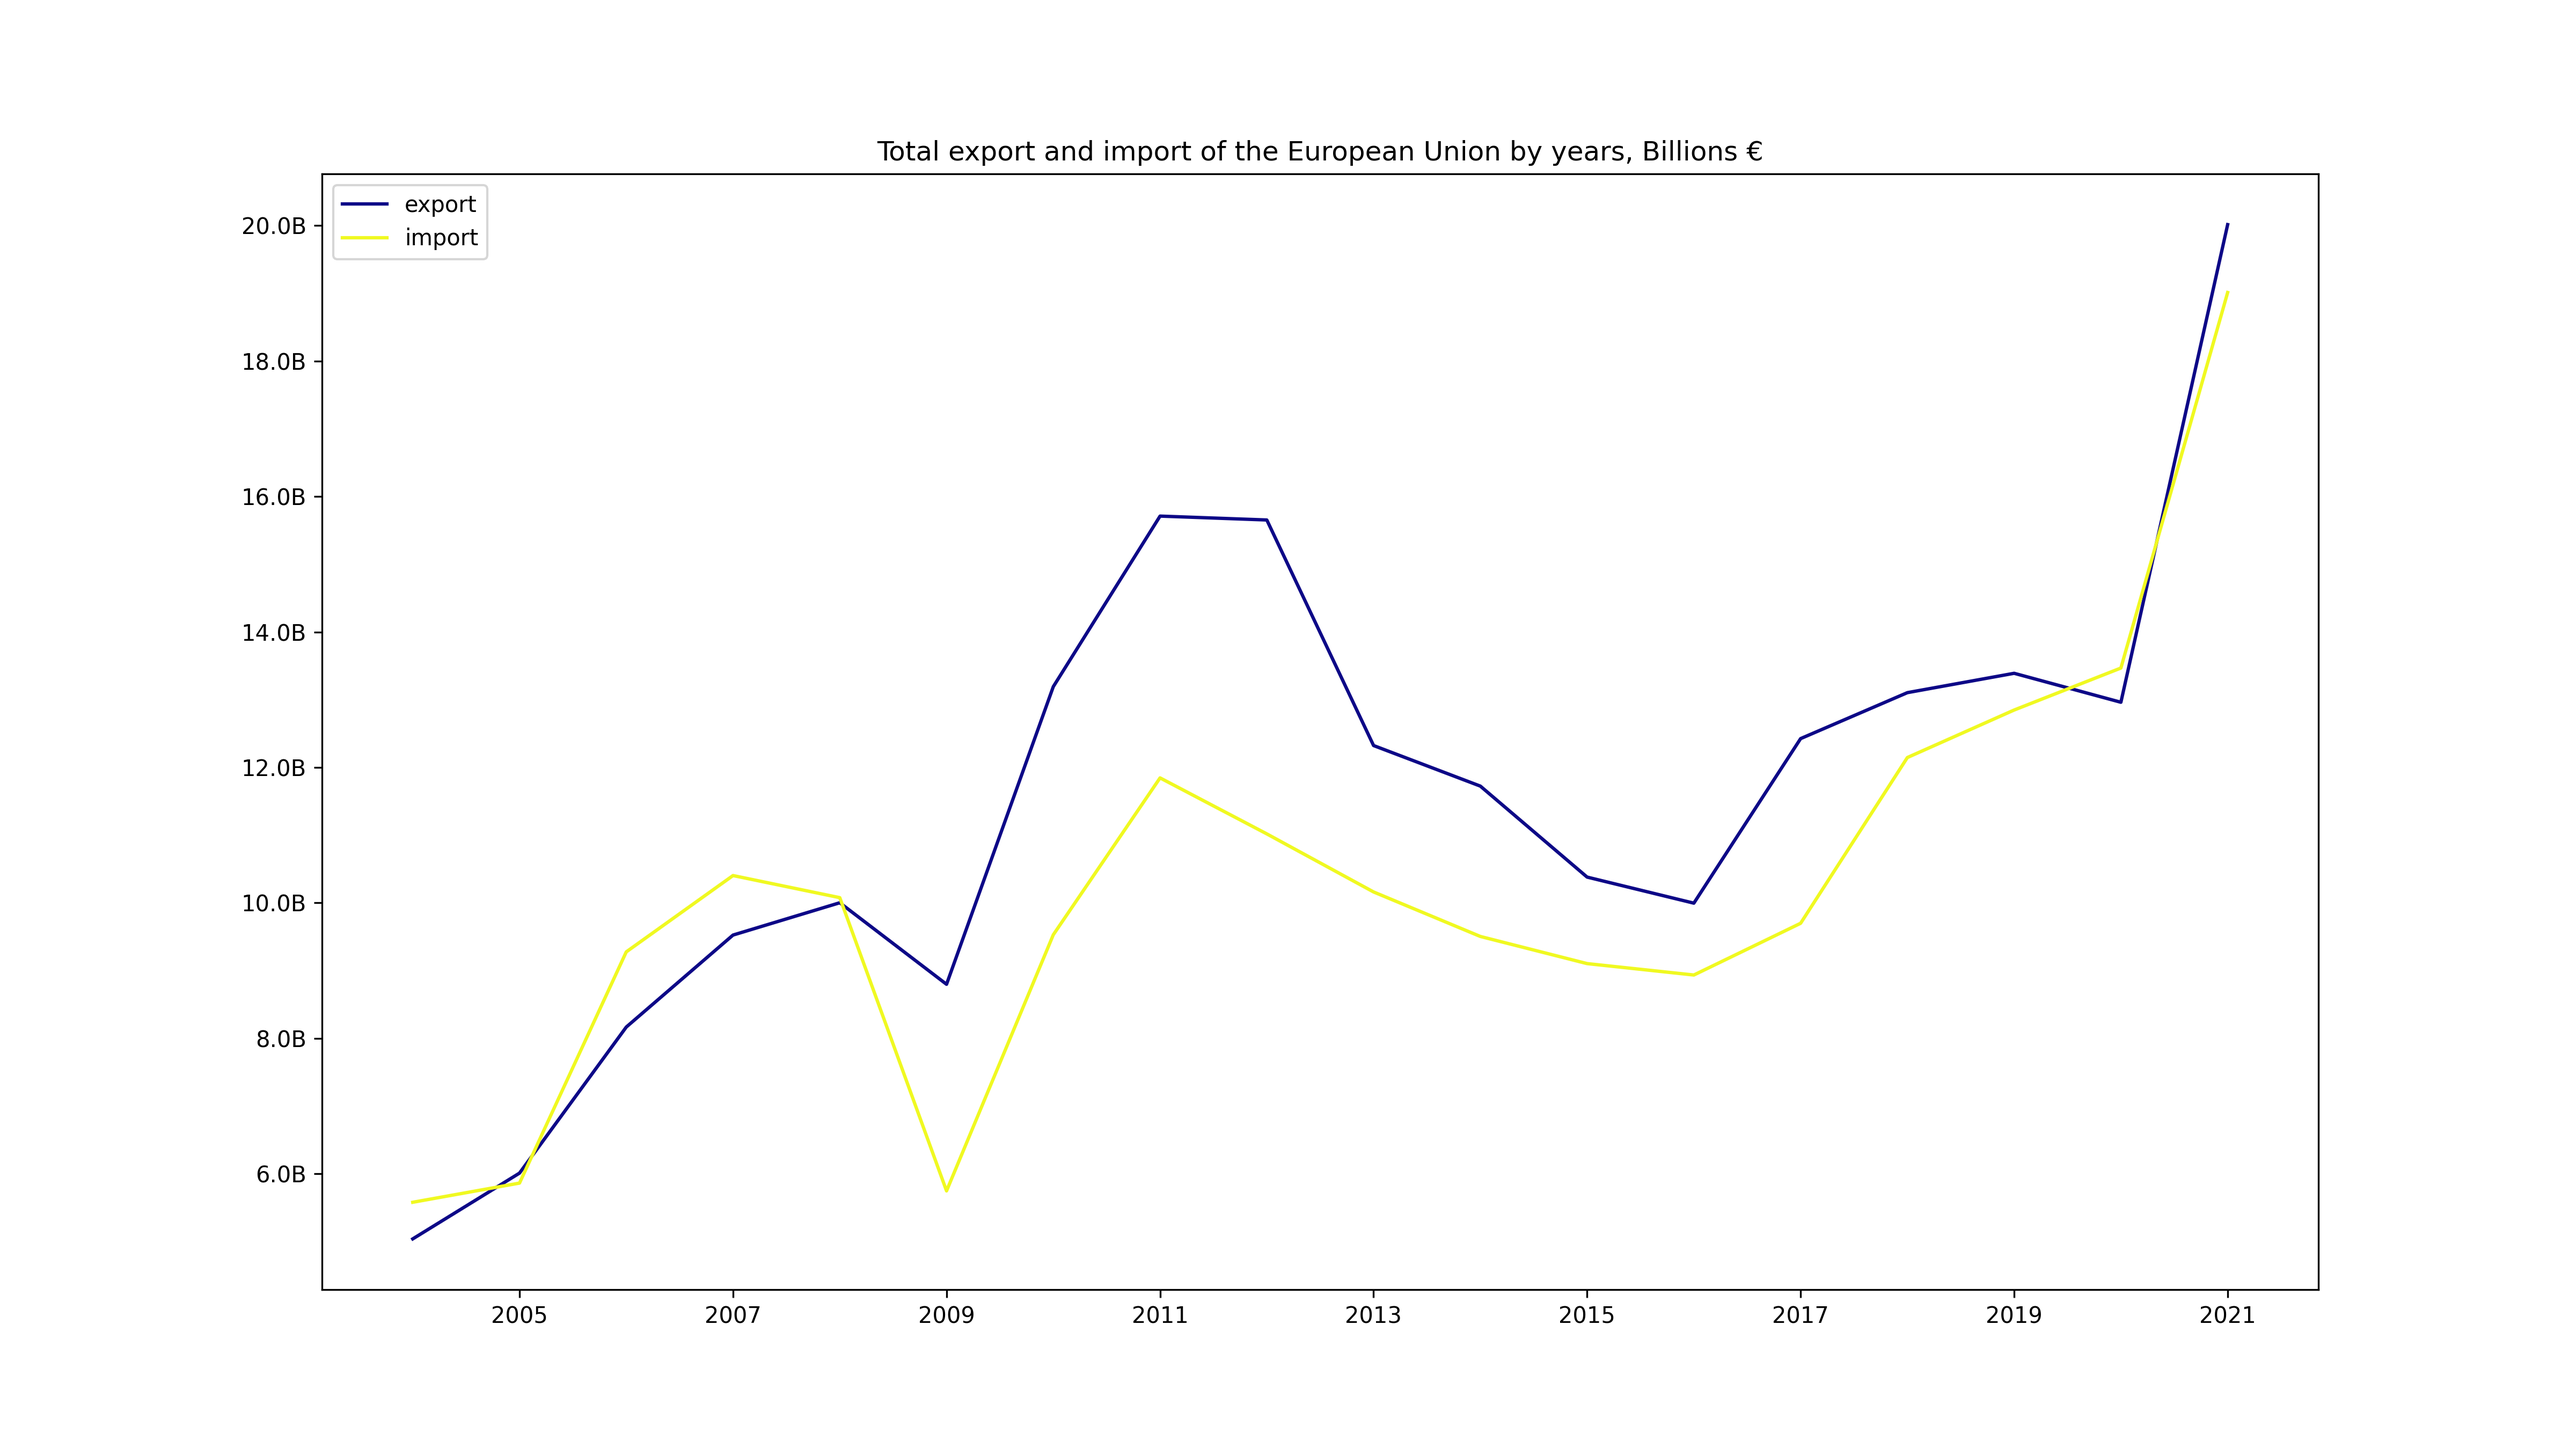
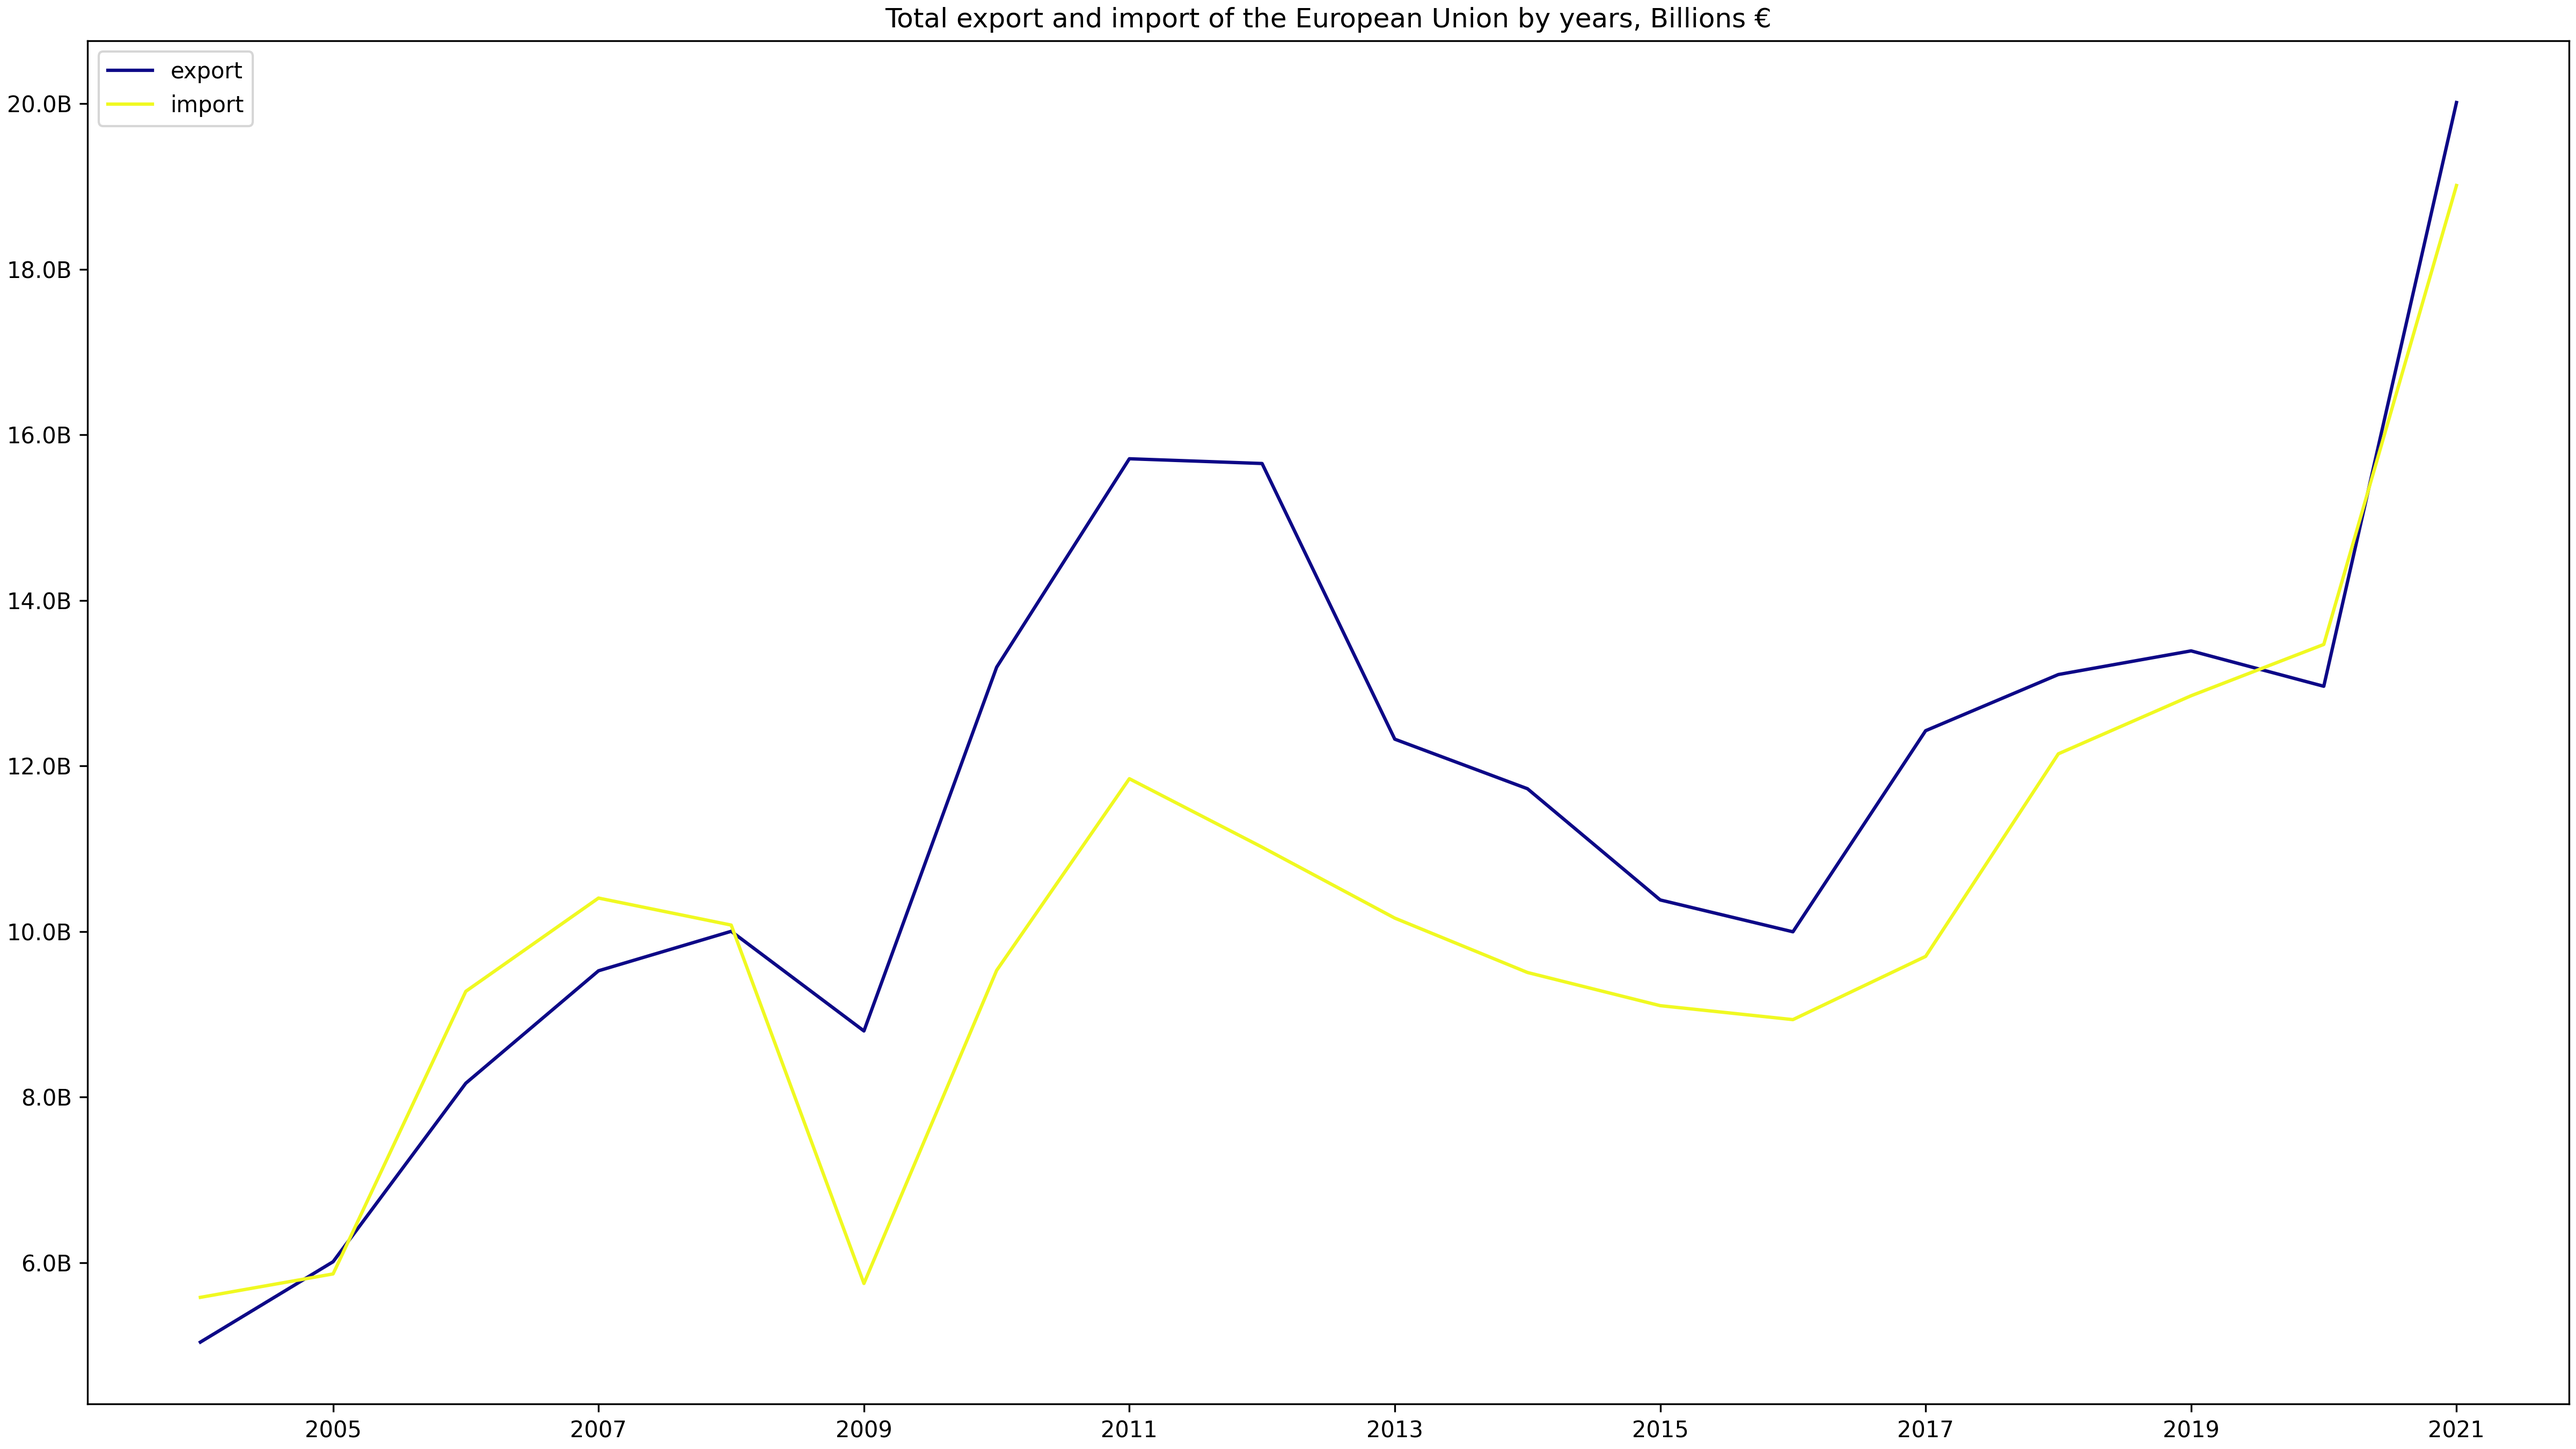
Tricks with layout

diff --git a/scripts/visual_eu_export_2021_by_materials.py b/scripts/visual_eu_export_2021_by_materials.py
@@ -16,20 +16,21 @@ print(len(eu_export_2021))
 # Define a colormap
 cmap = plt.get_cmap("plasma", 2)
 
-fig, ax = plt.subplots(figsize=(16, 9))
+fig, ax = plt.subplots(figsize=(16, 9), constrained_layout=True)
 bars = ax.barh(eu_export_2021['material_label'], eu_export_2021['tonne'], color = cmap(0), edgecolor = 'black', capsize=7, label=eu_export_2021['tonne'])
 
-ax.set_title('Total export of the European Union in 2021 by materials, Billions tonnes')
+ax.set_title('Total export of the European Union in 2021 by materials, Millions tonnes')
 ax.invert_yaxis()
 
 # Add values near the bars
 for bar, value in zip(bars, eu_export_2021['tonne']):
     ax.text(value + 100000, bar.get_y() + bar.get_height()/2,
-            f'{value / 1e6:.1f}B', va='center', fontsize=10, color='black')
+            f'{value / 1e6:.3f} M', va='center', fontsize=10, color='black')
 
+ax.set_xlim(0, max(eu_export_2021['tonne']) * 1.1)
 ax.xaxis.set_visible(False)
 
-plt.savefig('..//assets//eu_export_2021_by_materials.png', dpi=300)
+# plt.savefig('..//assets//eu_export_2021_by_materials.png', dpi=300)
 plt.show()
 
 

diff --git a/scripts/visual_eu_export_import_by_years.py b/scripts/visual_eu_export_import_by_years.py
@@ -7,7 +7,7 @@ from matplotlib.ticker import FuncFormatter
 total_eu_export_import = pd.read_csv('..//results//eu_export_import_by_years.csv')
 
 # Set up the figure and axis
-fig, ax = plt.subplots(figsize=(16, 9))
+fig, ax = plt.subplots(figsize=(16, 9), constrained_layout=True)
 
 export_data = total_eu_export_import['export_thousand_euros']
 import_data = total_eu_export_import['import_thousand_euros']
